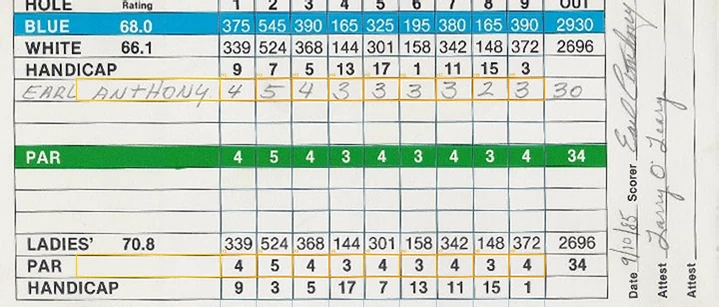
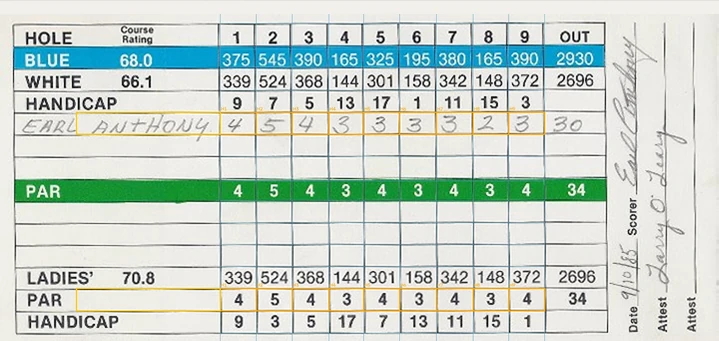
fix: give Cutout/Read/Done HOLE headroom and clear Done panels
Add ~14px paper above the HOLE row so header text stays fully visible,
drop the ANTHONY name chip (outline only), and keep Done Confirm/score
panels below the card on desktop and mobile so nothing covers the grid.

diff --git a/src/projects/T100Ingest.js b/src/projects/T100Ingest.js
@@ -40,20 +40,20 @@ const META = {
   question: 'Which tees?',
   nameBox: {
     x: 0.10633333333333336,
-    y: 0.2542938067285937,
+    y: 0.3286457438876195,
     w: 0.19977777777777775,
-    h: 0.07158155516331316,
+    h: 0.06444439130538751,
   },
   cells: [
-    { hole: 1, value: 4, x: 0.3061111111111111, y: 0.2542938067285937, w: 0.049999999999999906, h: 0.07158155516331316 },
-    { hole: 2, value: 5, x: 0.35611111111111104, y: 0.2542938067285937, w: 0.050000000000000065, h: 0.07158155516331316 },
-    { hole: 3, value: 4, x: 0.4061111111111111, y: 0.2542938067285937, w: 0.051111111111111086, h: 0.07158155516331316 },
-    { hole: 4, value: 3, x: 0.4572222222222222, y: 0.2542938067285937, w: 0.04833333333333341, h: 0.07158155516331316 },
-    { hole: 5, value: 3, x: 0.5055555555555555, y: 0.2542938067285937, w: 0.04999999999999998, h: 0.07158155516331316 },
-    { hole: 6, value: 3, x: 0.5555555555555556, y: 0.2542938067285937, w: 0.051111111111111086, h: 0.07158155516331316 },
-    { hole: 7, value: 3, x: 0.6066666666666667, y: 0.2542938067285937, w: 0.05111111111111116, h: 0.07158155516331316 },
-    { hole: 8, value: 2, x: 0.6577777777777778, y: 0.2542938067285937, w: 0.04944444444444435, h: 0.07158155516331316 },
-    { hole: 9, value: 3, x: 0.7072222222222222, y: 0.2542938067285937, w: 0.050000000000000065, h: 0.07158155516331316 },
+    { hole: 1, value: 4, x: 0.3061111111111111, y: 0.3286457438876195, w: 0.049999999999999906, h: 0.06444439130538751 },
+    { hole: 2, value: 5, x: 0.35611111111111104, y: 0.3286457438876195, w: 0.050000000000000065, h: 0.06444439130538751 },
+    { hole: 3, value: 4, x: 0.4061111111111111, y: 0.3286457438876195, w: 0.051111111111111086, h: 0.06444439130538751 },
+    { hole: 4, value: 3, x: 0.4572222222222222, y: 0.3286457438876195, w: 0.04833333333333341, h: 0.06444439130538751 },
+    { hole: 5, value: 3, x: 0.5055555555555555, y: 0.3286457438876195, w: 0.04999999999999998, h: 0.06444439130538751 },
+    { hole: 6, value: 3, x: 0.5555555555555556, y: 0.3286457438876195, w: 0.051111111111111086, h: 0.06444439130538751 },
+    { hole: 7, value: 3, x: 0.6066666666666667, y: 0.3286457438876195, w: 0.05111111111111116, h: 0.06444439130538751 },
+    { hole: 8, value: 2, x: 0.6577777777777778, y: 0.3286457438876195, w: 0.04944444444444435, h: 0.06444439130538751 },
+    { hole: 9, value: 3, x: 0.7072222222222222, y: 0.3286457438876195, w: 0.050000000000000065, h: 0.06444439130538751 },
   ],
 };
 
@@ -68,15 +68,6 @@ function boxStyle(b) {
     top: `${b.y * 100}%`,
     width: `${b.w * 100}%`,
     height: `${b.h * 100}%`,
-  };
-}
-
-function nameTagStyle(b) {
-  /* Anchor above the name row — keep handwritten ink fully visible */
-  return {
-    left: `${b.x * 100}%`,
-    top: `calc(${b.y * 100}% - 26px)`,
-    width: 'auto',
   };
 }
 
@@ -278,7 +269,7 @@ function T100Ingest() {
               src={`${INGEST}/step-cutout.webp`}
               alt=""
               width={719}
-              height={307}
+              height={341}
               draggable={false}
             />
           </div>
@@ -291,7 +282,7 @@ function T100Ingest() {
               src={`${INGEST}/step-rectified.webp`}
               alt=""
               width={719}
-              height={307}
+              height={341}
               draggable={false}
             />
           </div>
@@ -305,16 +296,10 @@ function T100Ingest() {
                 src={`${INGEST}/step-grid.webp`}
                 alt=""
                 width={719}
-              height={307}
+              height={341}
                 draggable={false}
               />
               <div className="t100-ig-cells" aria-hidden="true">
-                <span
-                  className={`t100-ig-name-tag${litCount > 0 ? ' is-lit' : ''}`}
-                  style={nameTagStyle(META.nameBox)}
-                >
-                  {META.player}
-                </span>
                 <span
                   className={`t100-ig-cell is-name-hit${litCount > 0 ? ' is-lit' : ''}`}
                   style={boxStyle(META.nameBox)}
@@ -341,12 +326,9 @@ function T100Ingest() {
                 src={`${INGEST}/step-rectified.webp`}
                 alt=""
                 width={719}
-              height={307}
+                height={341}
                 draggable={false}
               />
-            </div>
-            <div className="t100-ig-result t100-ig-result-overlay">
-              {resultPanel}
             </div>
           </div>
         </div>

diff --git a/src/projects/T100Ingest.css b/src/projects/T100Ingest.css
@@ -41,7 +41,7 @@ html.is-dark .t100-ig-frame {
 .t100-ig-frame[data-step='cutout'] .t100-ig-stage,
 .t100-ig-frame[data-step='read'] .t100-ig-stage,
 .t100-ig-frame[data-step='done'] .t100-ig-stage {
-  aspect-ratio: 719 / 307;
+  aspect-ratio: 719 / 341;
 }
 
 /* Layers: opacity only — no scale (scale caused ghost double edges) */
@@ -90,8 +90,8 @@ html.is-dark .t100-ig-frame {
 .t100-ig-layer.is-rect img {
   width: auto;
   height: auto;
-  max-width: 92%;
-  max-height: 88%;
+  max-width: 90%;
+  max-height: 84%;
   object-fit: contain;
   /* Opaque RGB assets — no alpha fringe / ghost outline */
   background: transparent;
@@ -104,8 +104,8 @@ html.is-dark .t100-ig-frame {
 /* Shared padded card box for Read / Done — stage ≈ card aspect, so 90% fits */
 .t100-ig-cardbox {
   position: relative;
-  aspect-ratio: 719 / 307;
-  width: 92%;
+  aspect-ratio: 719 / 341;
+  width: 90%;
   height: auto;
   /* Hard edges — no shadow/filter that paints a duplicate outline */
   filter: none;
@@ -171,29 +171,6 @@ html.is-dark .t100-ig-frame {
   border-color: color-mix(in srgb, #3b82b8 70%, #fff);
 }
 
-.t100-ig-name-tag {
-  position: absolute;
-  box-sizing: border-box;
-  padding: 2px 7px;
-  border-radius: 4px;
-  font-family: var(--font-sans);
-  font-size: clamp(9px, 1.5vw, 11px);
-  font-weight: 700;
-  letter-spacing: 0.08em;
-  text-transform: uppercase;
-  color: transparent;
-  background: transparent;
-  border: 1px solid transparent;
-  text-align: center;
-  transition: color 0.2s ease, background 0.2s ease, border-color 0.2s ease;
-  white-space: nowrap;
-}
-
-.t100-ig-name-tag.is-lit {
-  color: #0f2740;
-  background: color-mix(in srgb, #cfe6f8 92%, #fff);
-  border-color: color-mix(in srgb, #3b82b8 45%, #fff);
-}
 
 /* Done results */
 .t100-ig-result-inner {
@@ -202,21 +179,27 @@ html.is-dark .t100-ig-frame {
   gap: 10px;
 }
 
+/* Overlay removed — Done panels always stack below the card */
 .t100-ig-result-overlay {
-  /* Lower-right below the handwritten score row (~y 25–33%) */
-  position: absolute;
-  right: 1.5%;
-  top: 46%;
-  bottom: auto;
-  width: min(26%, 190px);
-  max-height: 50%;
-  overflow: auto;
-  pointer-events: auto;
-  z-index: 2;
+  display: none !important;
 }
 
 .t100-ig-result-below {
-  display: none;
+  display: block;
+  margin-top: 12px;
+}
+
+.t100-ig-result-below .t100-ig-result-inner {
+  gap: 8px;
+}
+
+@media (min-width: 701px) {
+  .t100-ig-result-below .t100-ig-result-inner {
+    display: grid;
+    grid-template-columns: 1fr 1fr;
+    gap: 10px;
+    align-items: stretch;
+  }
 }
 
 .t100-ig-score {
@@ -409,17 +392,9 @@ html.is-dark .t100-ig-tabs button.is-active {
     border-radius: 10px;
   }
 
-  /* Mobile Done: hide overlay, show stacked panel below stage */
-  .t100-ig-result-overlay {
-    display: none;
-  }
-
-  .t100-ig-result-below {
-    display: block;
-    margin-top: 12px;
-  }
-
   .t100-ig-result-below .t100-ig-result-inner {
+    display: flex;
+    flex-direction: column;
     gap: 8px;
   }
 
@@ -436,12 +411,6 @@ html.is-dark .t100-ig-tabs button.is-active {
   .t100-ig-tabs button {
     padding: 6px 11px;
     font-size: 12px;
-  }
-}
-
-@media (min-width: 701px) {
-  .t100-ig-result-below {
-    display: none !important;
   }
 }
 
